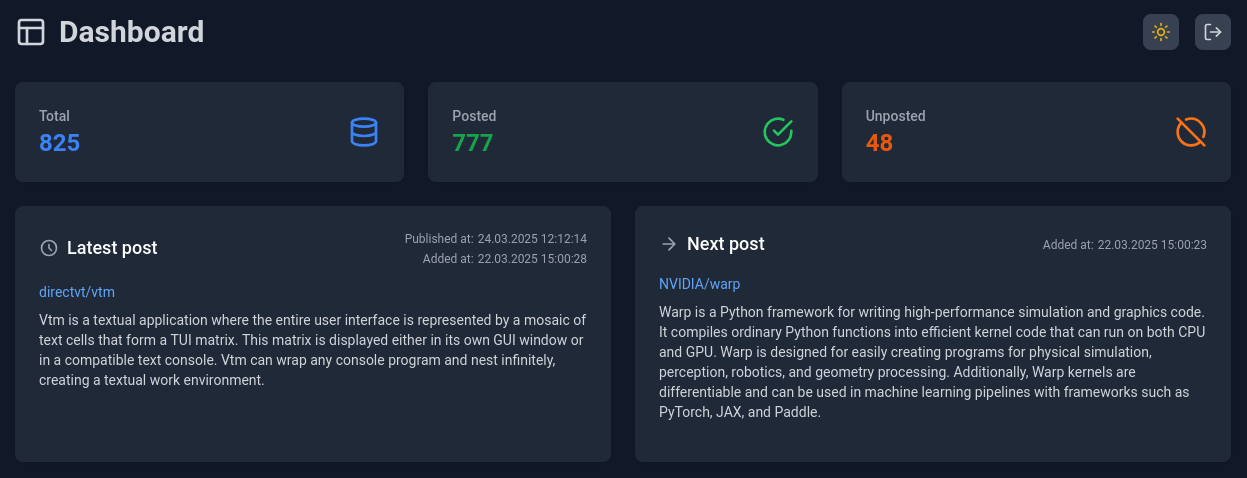
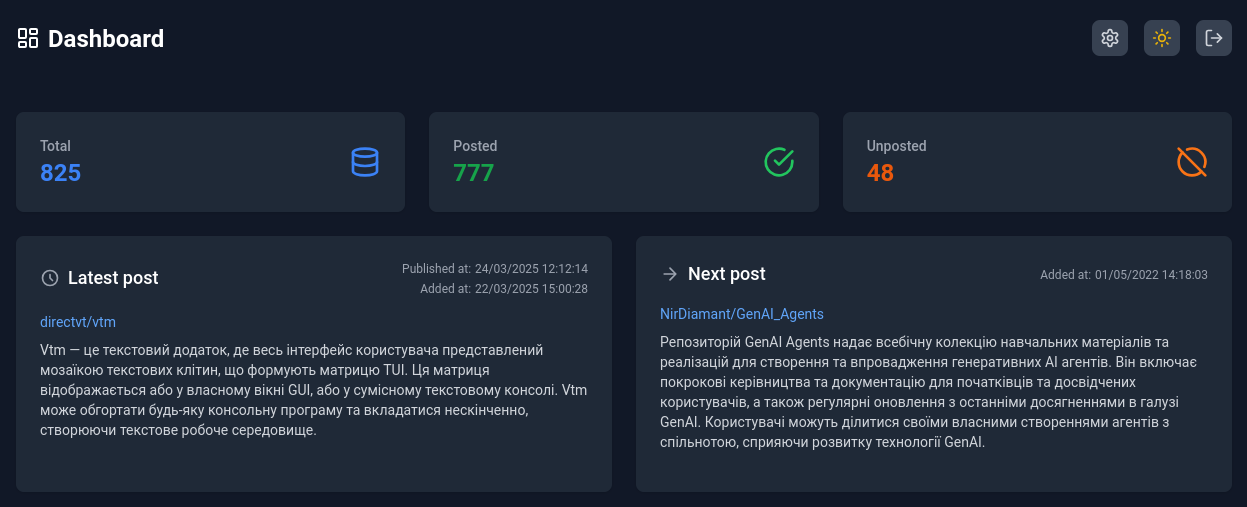
feat(README): update README with new screenshot and enhance visual content
Added a new screenshot to the README file and updated existing screenshots to improve visual representation of the application. This enhances the documentation and provides users with a clearer understanding of the application's interface.

diff --git a/README.md b/README.md
@@ -38,6 +38,9 @@ This application allows you to monitor, generate, and manage GitHub repositories
 
 ![alt text](assets/screenshot1.png)
 
+![alt text](assets/screenshot2.png)
+
+
 ## Getting Started
 
 ### Prerequisites
